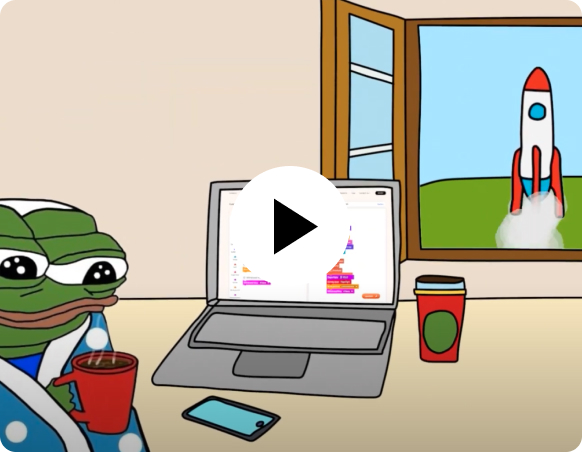
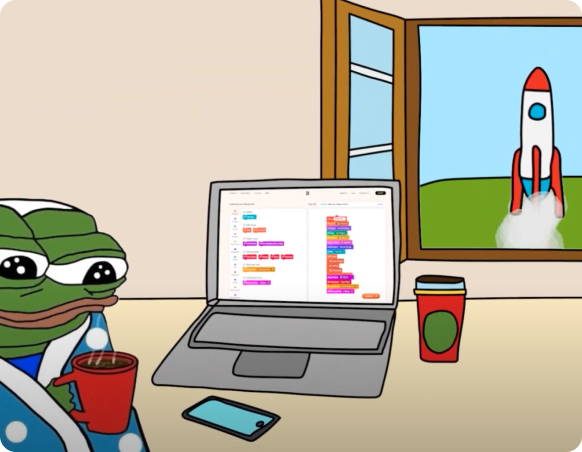
update video

Changed region(s): [[0.4021, 0.3717, 0.6186, 0.6195]]

diff --git a/src/modules/blockchains/Buy/index_v5.tsx b/src/modules/blockchains/Buy/index_v5.tsx
@@ -3,6 +3,7 @@ import React, { useEffect, useRef, useState } from 'react';
 import gsap from 'gsap';
 import { useRouter, useSearchParams } from 'next/navigation';
 import toast from 'react-hot-toast';
+import ModalVideo from 'react-modal-video';
 
 import { getModelCategories, getTemplates } from '@/services/customize-model';
 import BoxOptionV3 from './components3/BoxOptionV3';
@@ -54,7 +55,8 @@ const BuyPage = () => {
   const [currentPackage, setCurrentPackage] = React.useState<number | null>(
     null,
   );
-
+  const [isShowVideo, setIsShowVideo] = React.useState<boolean>(true)
+  const [isOpenModalVideo , setIsOpenModalVideo] = useState<boolean>(false)
   const handleDragStart = (event: any) => {
     const { active } = event;
     const [activeKey = '', activeSuffix1 = '', activeSuffix2] =
@@ -775,7 +777,6 @@ const BuyPage = () => {
                 <div className={s.right_box_footer}>
                   <div className={s.right_box_footer_left}>
                     <h4 className={s.right_box_footer_left_content}>
-                      {'~'}
                       {formatCurrencyV2({
                         amount: priceBVM,
                         decimals: 2,
@@ -995,14 +996,36 @@ const BuyPage = () => {
                   </div>
                   Reset
                 </button>
-                <div className={s.video}>
-                  <ImagePlaceholder src={'/video.jpg'} alt={'video'} width={291} height={226} />
-                </div>
+                {
+                  isShowVideo && (
+                    <div className={s.video} >
+                      <ImagePlaceholder src={'/video.jpg'} alt={'video'} width={291} height={226} />
+                      <div className={s.video_play} onClick={() => setIsOpenModalVideo(true)}>
+                        <ImagePlaceholder src={'/play.svg'} alt={'video'} width={60} height={60} />
+                      </div>
+                      <div className={s.video_close} onClick={() => {
+                        setIsOpenModalVideo(false)
+                        setIsShowVideo(false)
+                      }}>
+                        <ImagePlaceholder src={'/close.svg'} alt={'close'} width={24} height={24} />
+                      </div>
+                    </div>
+                  )
+                }
+
               </div>
             </div>
           </div>
         </div>
       </DndContext>
+      <ModalVideo
+        channel="custom"
+        url={'https://storage.googleapis.com/bvm-network/icons-tool/DragnDrop_03.mp4'}
+        isOpen={isOpenModalVideo}
+        onClose={() => {
+          setIsOpenModalVideo(false);
+        }}
+      />
     </div>
   );
 };

diff --git a/src/modules/blockchains/Buy/styles_v5.module.scss b/src/modules/blockchains/Buy/styles_v5.module.scss
@@ -343,4 +343,31 @@
   top: 22px;
   right: 18px;
   max-width: 291px;
+  z-index: 99;
+  &_close {
+    position: absolute;
+    z-index: 9999;
+    top: 5px;
+    right: 5px;
+    cursor: pointer;
+    max-width: 24px;
+    font-weight: 700;
+    color: #000;
+    background-color: transparent;
+    border: none;
+  }
+  &_play {
+    position: absolute;
+    top: 50%;
+    left: 50%;
+    transform: translate(-50%, -50%);
+    max-width: 60px;
+    z-index: 9999;
+    border-radius: 50%;
+    display: flex;
+    justify-content: center;
+    align-items: center;
+    cursor: pointer;
+    transition: opacity 0.5s;
+  }
 }
